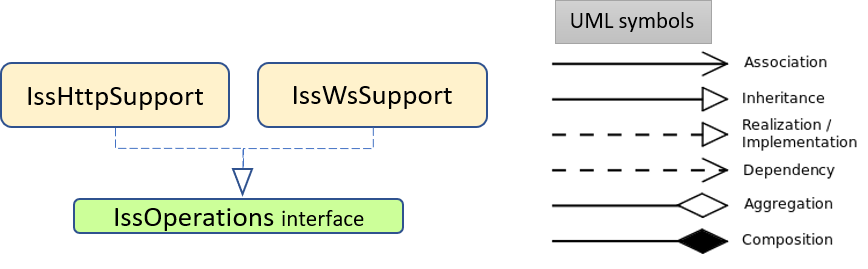
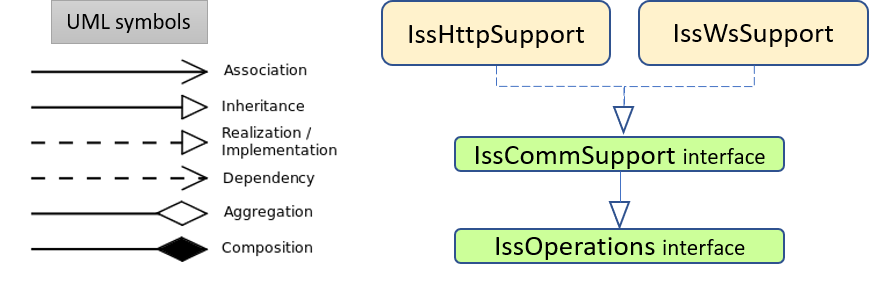
layers of clients

diff --git a/it.unibo.virtualrobotclient/userDocs/VirtualrobotClients.html b/it.unibo.virtualrobotclient/userDocs/VirtualrobotClients.html
@@ -485,14 +485,15 @@ As already discussed in <a href="../../it.unibo.boundaryWalk/userdocs/BoundaryWa
 the application designer should not be involved into the technological details related to low-level communications.
 <br/>
 Thus, in this section, we will develop examples of clients that exploit the supports written by our system designers 
-(<a href="../app/src/main/java/it/unibo/supports/IssHttpSupport.java" target="web"><em>IssHttpSupport.java</em></a> and
-<a href="../app/src/main/java/it/unibo/supports/IssWsSupport.java" target="web"><em>IssWsSupport.java</em></a>) that
-implements the interface <a href="../app/src/main/java/it/unibo/interaction/IssOperations.java" target="web"><em>IssOperations</em></a>.
-
-<center><img src="./img/issCommsLayers.png" alt="issCommsLayers" width="40%" ></center>
-
+<a href="../app/src/main/java/it/unibo/supports/IssHttpSupport.java" target="web"><em>IssHttpSupport.java</em></a> and
+<a href="../app/src/main/java/it/unibo/supports/IssWsSupport.java" target="web"><em>IssWsSupport.java</em></a>.
 <br/><br/>
-The careful reader will note that our supports now implement the interface that extends our previous
+<center><img src="./img/issCommsLayers.png" alt="issCommsLayers" width="50%" ></center>
+
+<br/> 
+The careful reader will note that our supports now implement the interface 
+<a href="../app/src/main/java/it/unibo/interaction/IssCommSupport.java" target="web"><em>IssCommSupport</em></a>
+that extends our previous
 <a href="../app/src/main/java/it/unibo/interaction/IssOperations.java" target="web"><em>IssOperations</em></a>.
 In this section, we will continue to use the <a href="../app/src/main/java/it/unibo/interaction/IssOperations.java" target="web">IssOperations</a> 
 interface only; the reason of the extension is given in the
